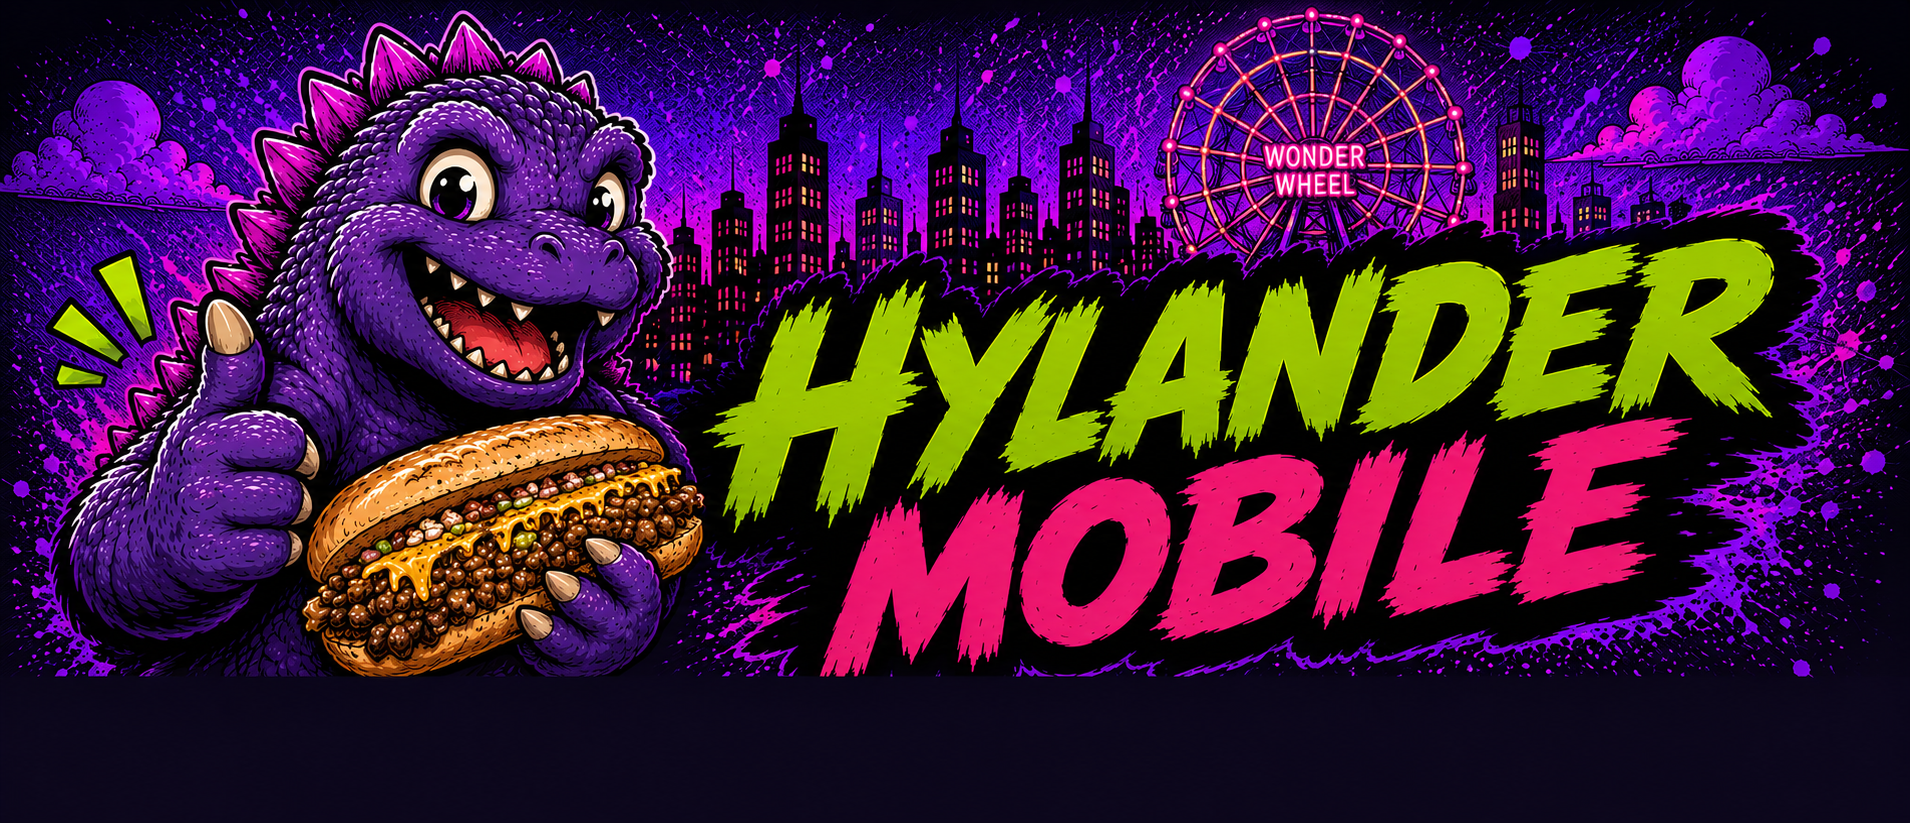
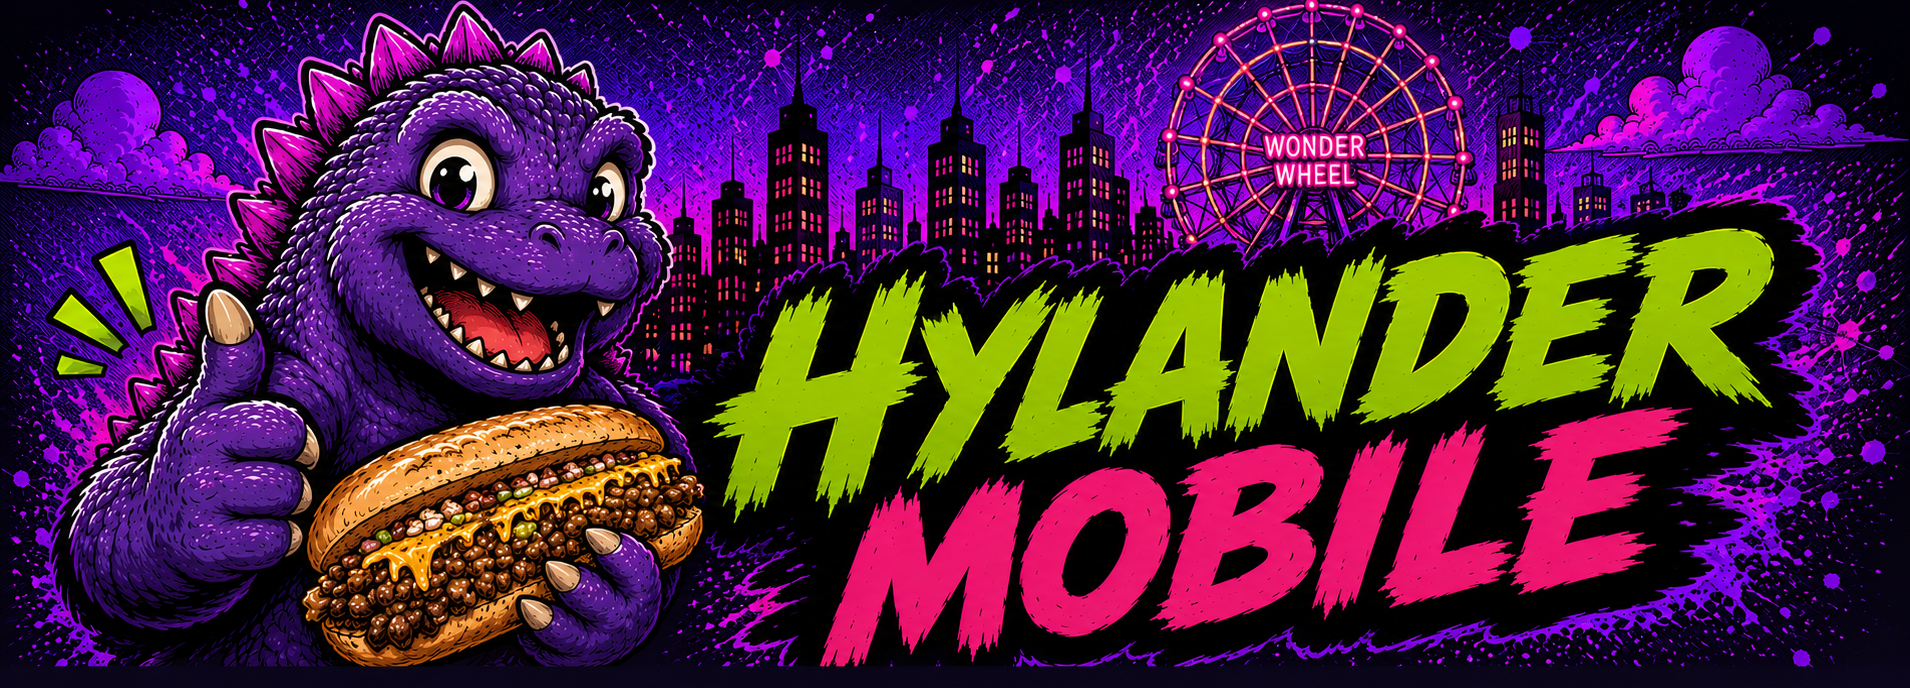
Update header assets and development pages

diff --git a/app/legal/page.tsx b/app/legal/page.tsx
@@ -1,3 +1,5 @@
+import Image from "next/image";
+import Link from "next/link";
 import { SiteFooter } from "@/components/SiteFooter";
 import { SiteHeader } from "@/components/SiteHeader";
 
@@ -10,19 +12,25 @@ export default function LegalPage() {
   return (
     <>
       <SiteHeader />
-      <main className="grid min-h-screen place-items-center px-4 py-10">
-        <section className="grid w-full max-w-3xl gap-4 rounded-lg border-2 border-hyPurple bg-black p-6 text-white shadow-[6px_6px_0_#ec4899]" data-animate="card">
-          <h1 className="text-center text-4xl font-black uppercase text-hyGreen" data-animate="title">Legal</h1>
-          <div className="grid gap-3 text-sm font-bold leading-relaxed text-white/80">
-            <p>
-              Hylander Mobile uses this website to share menu, location, contact, and ordering information. Menu availability, pricing, hours, and venue details may change.
-            </p>
-            <p>
-              Online ordering is still in development. Do not submit sensitive payment information through this site unless an official hosted checkout is active.
-            </p>
-            <p>
-              For privacy or site questions, contact Hylander Mobile through the contact page.
-            </p>
+      <main className="grid justify-items-center px-4 pb-8 pt-4 sm:pt-6">
+        <section className="grid w-full max-w-3xl gap-4 rounded-lg border-2 border-hyPurple bg-black p-4 text-center text-white shadow-[6px_6px_0_#ec4899] sm:p-6" data-animate="card">
+          <h1 className="text-4xl font-black uppercase text-hyGreen sm:text-5xl" data-animate="title">Legal</h1>
+          <figure className="overflow-hidden rounded-lg border-2 border-hyPink bg-black shadow-[4px_4px_0_#ec4899]" data-animate="image">
+            <Image className="h-auto w-full" src="/img/dev.png" alt="Hylander Mobile legal page under development" width={1536} height={1024} priority unoptimized />
+          </figure>
+          <p className="mx-auto w-full rounded-lg border-2 border-hyGreen bg-hyHotPink px-4 py-3 text-4xl font-black uppercase leading-none text-white shadow-[5px_5px_0_#12b76a,0_0_28px_rgba(236,72,153,0.7)] [text-shadow:3px_3px_0_#000] sm:text-7xl">
+            Under Development
+          </p>
+          <p className="mx-auto mt-3 max-w-xl font-bold text-white/80">
+            Legal, privacy, and site terms are being prepared. For privacy or site questions, contact Hylander Mobile through the contact page.
+          </p>
+          <div className="mx-auto flex flex-wrap justify-center gap-3">
+            <Link className="rounded-full bg-hyGreen px-5 py-3 text-sm font-black uppercase text-black shadow-[4px_4px_0_#ec4899]" href="/contact" data-animate="button">
+              Contact Us
+            </Link>
+            <Link className="rounded-full bg-hyHotPink px-5 py-3 text-sm font-black uppercase text-white shadow-[4px_4px_0_#12b76a]" href="/" data-animate="button">
+              Home
+            </Link>
           </div>
         </section>
       </main>

diff --git a/app/careers/page.tsx b/app/careers/page.tsx
@@ -1,3 +1,5 @@
+import Image from "next/image";
+import Link from "next/link";
 import { SiteFooter } from "@/components/SiteFooter";
 import { SiteHeader } from "@/components/SiteHeader";
 
@@ -10,13 +12,26 @@ export default function CareersPage() {
   return (
     <>
       <SiteHeader />
-      <main className="grid min-h-screen place-items-center px-4 py-10">
-        <section className="w-full max-w-3xl rounded-lg border-2 border-hyPurple bg-black p-6 text-center text-white shadow-[6px_6px_0_#ec4899]" data-animate="card">
-          <p className="mx-auto mb-3 w-fit rounded-full bg-hyGreen px-3 py-2 text-xs font-black uppercase text-black">Coming Soon</p>
-          <h1 className="text-4xl font-black uppercase text-hyHotPink" data-animate="title">Careers</h1>
+      <main className="grid justify-items-center px-4 pb-8 pt-4 sm:pt-6">
+        <section className="grid w-full max-w-3xl gap-4 rounded-lg border-2 border-hyPurple bg-black p-4 text-center text-white shadow-[6px_6px_0_#ec4899] sm:p-6" data-animate="card">
+          <h1 className="text-4xl font-black uppercase text-hyGreen sm:text-5xl" data-animate="title">Careers</h1>
+          <figure className="overflow-hidden rounded-lg border-2 border-hyPink bg-black shadow-[4px_4px_0_#ec4899]" data-animate="image">
+            <Image className="h-auto w-full" src="/img/dev.png" alt="Hylander Mobile careers page under development" width={1536} height={1024} priority unoptimized />
+          </figure>
+          <p className="mx-auto w-full rounded-lg border-2 border-hyGreen bg-hyHotPink px-4 py-3 text-4xl font-black uppercase leading-none text-white shadow-[5px_5px_0_#12b76a,0_0_28px_rgba(236,72,153,0.7)] [text-shadow:3px_3px_0_#000] sm:text-7xl">
+            Under Development
+          </p>
           <p className="mx-auto mt-3 max-w-xl font-bold text-white/80">
             Interested in working with Hylander Mobile, helping with deliveries, or collaborating on pop-ups? Send us a note on the contact page.
           </p>
+          <div className="mx-auto flex flex-wrap justify-center gap-3">
+            <Link className="rounded-full bg-hyGreen px-5 py-3 text-sm font-black uppercase text-black shadow-[4px_4px_0_#ec4899]" href="/contact" data-animate="button">
+              Contact Us
+            </Link>
+            <a className="rounded-full bg-hyHotPink px-5 py-3 text-sm font-black uppercase text-white shadow-[4px_4px_0_#12b76a]" href="https://www.instagram.com/hylandermobile" target="_blank" rel="noopener noreferrer" data-animate="button">
+              Instagram
+            </a>
+          </div>
         </section>
       </main>
       <SiteFooter />

diff --git a/components/SiteHeader.tsx b/components/SiteHeader.tsx
@@ -2,10 +2,12 @@ import Link from "next/link";
 
 export function SiteHeader() {
   return (
-    <header className="sticky top-0 z-20 border-b-2 border-black bg-black pb-7 pt-0 shadow-[0_8px_24px_rgba(0,0,0,0.22)] sm:px-16 sm:pb-0 md:px-56 lg:px-80 xl:px-[26rem] 2xl:px-[34rem]">
-      <nav className="relative mx-auto aspect-[2048/878] w-[calc(100%-5rem)] max-w-[500px] overflow-visible bg-black bg-contain bg-top bg-no-repeat sm:w-full sm:max-w-[520px]" style={{ backgroundImage: "url('/img/navbar.png?v=20260519')" }} aria-label="Main navigation">
-        <Link href="/" className="absolute inset-0" aria-label="Hylander Mobile home" />
-        <div className="absolute left-1/2 top-full z-10 grid w-screen -translate-x-1/2 -translate-y-2 grid-cols-4 gap-1.5 px-3 sm:top-auto sm:left-auto sm:right-4 sm:bottom-2 sm:flex sm:w-auto sm:translate-x-0 sm:translate-y-0 sm:px-0 sm:gap-2">
+    <header className="sticky top-0 z-20 border-b-2 border-black bg-black px-3 pb-3 pt-0 shadow-[0_8px_24px_rgba(0,0,0,0.22)]">
+      <nav className="mx-auto grid w-full max-w-[980px] justify-items-center gap-1" aria-label="Main navigation">
+        <div className="relative aspect-[1910/688] w-[calc(100%-5rem)] max-w-[500px] overflow-visible bg-black bg-contain bg-top bg-no-repeat sm:w-full sm:max-w-[520px]" style={{ backgroundImage: "url('/img/navbar.png?v=20260520c')" }}>
+          <Link href="/" className="absolute inset-0" aria-label="Hylander Mobile home" />
+        </div>
+        <div className="grid w-full grid-cols-4 gap-1.5">
           <Link className="rounded-full bg-hyDeepPurple px-2 py-1.5 text-center text-[0.68rem] font-black uppercase text-white shadow-[inset_0_-3px_0_#be185d] sm:px-3 sm:py-2 sm:text-sm" href="/#menu" data-animate="nav">
             Menu
           </Link>

diff --git a/app/layout.tsx b/app/layout.tsx
@@ -10,6 +10,16 @@ export const metadata: Metadata = {
   },
   description:
     "Hylander Mobile food truck menu in Kingston, NY with chop cheese, chop chicken, wings, sliders, pierogis, desserts, drinks, and Sauce Roulette flavors.",
+  icons: {
+    icon: [
+      {
+        url: "/favicon.png?v=20260520",
+        type: "image/png"
+      }
+    ],
+    shortcut: "/favicon.png?v=20260520",
+    apple: "/favicon.png?v=20260520"
+  },
   robots: "index, follow",
   openGraph: {
     title: "Hylander Mobile Food Truck Menu",
